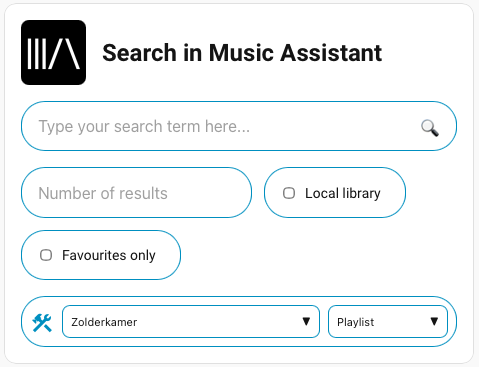
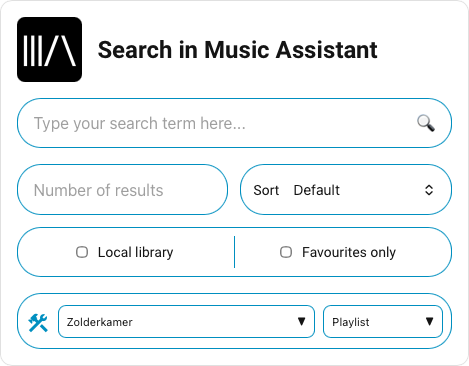
Update screenshot and README configuration table
- Replace screenshot with clean version (grey border removed)
- Remove 'coming soon' placeholder from screenshot section
- Add compact, multiroom, hide_selectors and default_results to config table

diff --git a/README.md b/README.md
@@ -16,9 +16,7 @@ The **Mass Search Card** is a custom Lovelace card for Home Assistant that lets 
 
 ## Screenshots
 
-| Search card | Search results |
-|:-----------:|:--------------:|
-| ![Search card](images/search-card.png) | _coming soon_ |
+![Search card](images/search-card.png)
 
 ## Installation
 
@@ -69,15 +67,23 @@ All options are optional.
 | `language` | string | `en` | Interface language. Supported values: `en`, `nl`, `cz`, `sv`, `sk`, `fr` |
 | `default_player` | string | — | Pin a default Music Assistant media player (entity_id). Overrides the last-used player. |
 | `default_media_type` | string | — | Pin a default media type. One of: `track`, `album`, `artist`, `playlist`, `radio`. Overrides the last-used type. |
+| `default_results` | number | — | Pin a fixed number of search results. Hides the results input field in the card when set. |
+| `compact` | boolean | `false` | Hide the logo, title and settings row — shows only the search bar and player selector. |
+| `multiroom` | boolean | `false` | Allow selecting multiple players simultaneously for synchronised playback. |
+| `hide_selectors` | boolean | `false` | Hide the player and media type selector bar from the card. |
 
 The last used player and media type are automatically saved and restored across page reloads. Use `default_player` and `default_media_type` to lock a fixed selection.
 
-**Example with defaults:**
+**Example with all options:**
 ```yaml
 type: custom:mass-search-card
 language: nl
 default_player: media_player.living_room
 default_media_type: track
+default_results: 10
+compact: false
+multiroom: false
+hide_selectors: false
 ```
 
 ## Languages
